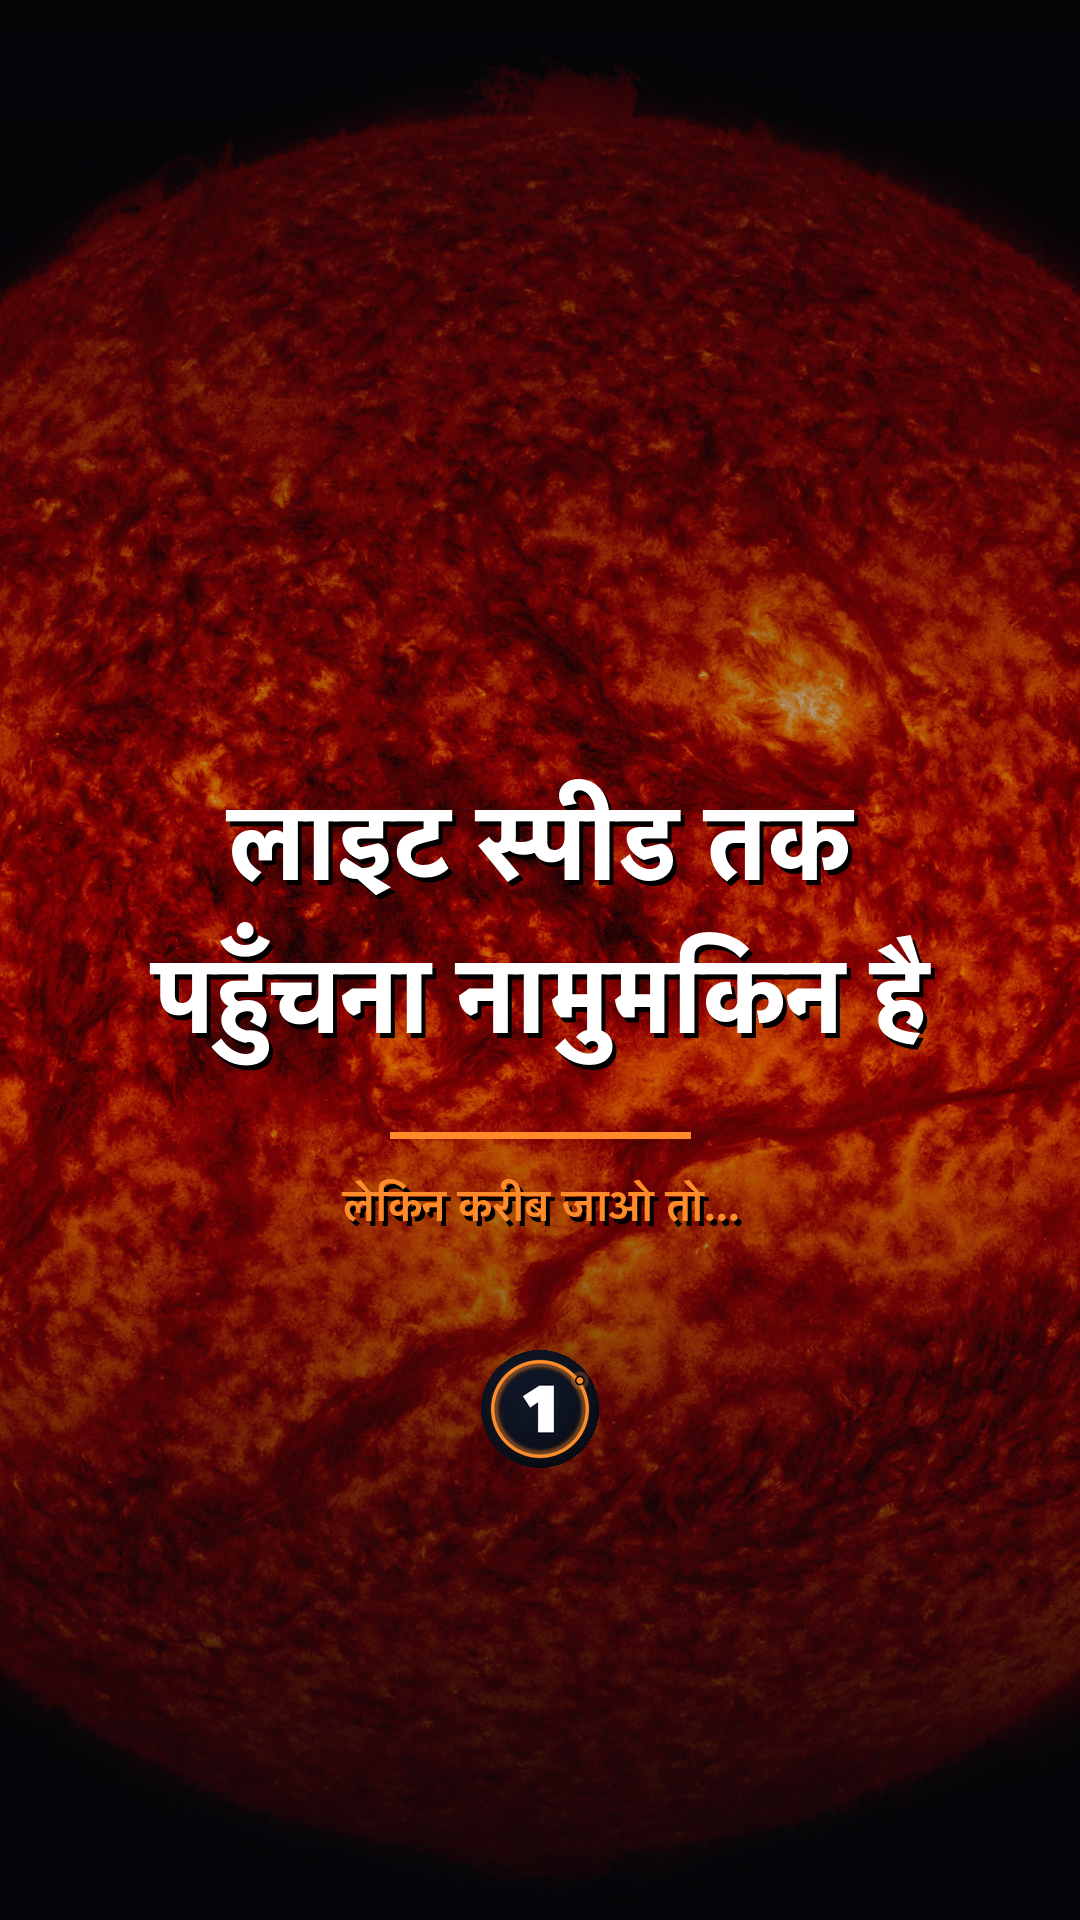
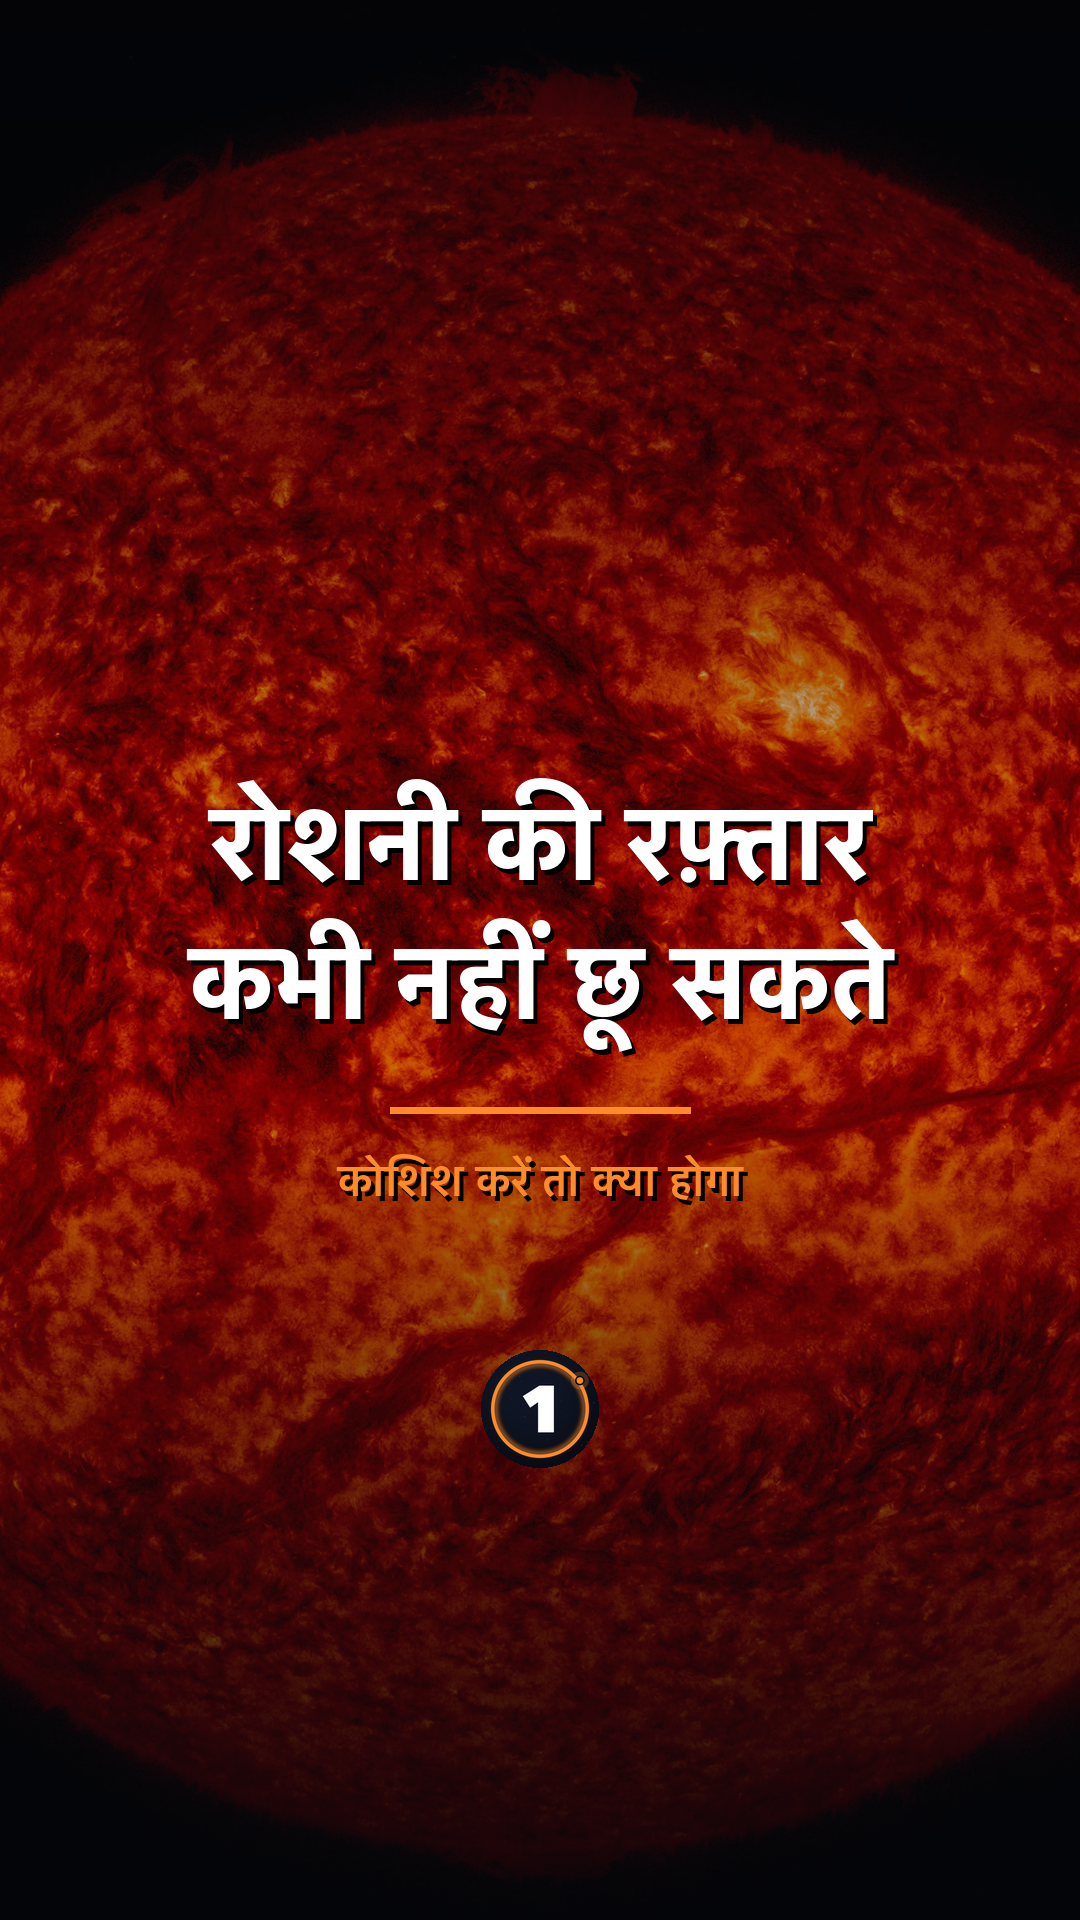
Covers: one vertical cover for all three platforms
We publish reels only, so the 1280x720 landscape thumbnail was wrong on its own
terms - YouTube Shorts and Facebook Reels both take the same 1080x1920 image
Instagram does. Dropped it. The Facebook *Page* banner is a separate one-time
channel asset, now behind --page-cover instead of being emitted per video.

make_package.py --cover drops the one image into all three folders, and no
longer throws when the source video already lives in the destination.

Badge moved up 64px: at the old position it straddled the 1:1 crop line and
would have been sliced in half in the profile grid.

Changed region(s): [[0.1222, 0.4062, 0.8556, 0.6562]]

diff --git a/Tools/publish/make_covers.py b/Tools/publish/make_covers.py
@@ -1,12 +1,14 @@
 #!/usr/bin/env python3
-"""Generate the three different things platforms call a "cover".
+"""Generate the cover image for one reel.
 
-  reel_cover_1080x1920.png   Instagram Reel / Shorts cover.
-                             All text sits inside the centre 1080x1080, because
-                             the profile grid crops it to a square.
-  yt_thumbnail_1280x720.png  YouTube thumbnail.
-  fb_cover_1640x856.png      Facebook Page cover. Text kept inside the mobile
-                             safe band, which is much narrower than the image.
+We publish reels only — Instagram Reels, YouTube Shorts, Facebook Reels — so there
+is exactly ONE cover: 1080x1920, used on all three. No landscape thumbnail.
+
+  reel_cover_1080x1920.png   All text sits inside the centre 1080x1080, because
+                             the Instagram profile grid crops it to a square.
+
+  --page-cover also writes page_cover_1640x856.png, the Facebook *Page* banner.
+  That's a one-time channel asset, not a per-video one.
 
     python3 make_covers.py --plate sun_surface --line1 "YOU CAN NEVER" \
         --line2 "REACH LIGHT SPEED" --kicker "here's what happens if you try" \
@@ -82,7 +84,7 @@ def badge(img, mark_path, size, xy):
     img.paste(m, xy, msk)
 
 
-def build(plate, l1, l2, kicker, outdir, accent, mark, hindi=False):
+def build(plate, l1, l2, kicker, outdir, accent, mark, hindi=False, page_cover=False):
     face, bold_i, semi_i = (DEV, DEV_BOLD, DEV_SEMI) if hindi else (LAT, HEAVY, DEMI)
     outdir.mkdir(parents=True, exist_ok=True)
     src = Image.open(PLATES / f"{plate}.jpg").convert("RGB")
@@ -102,47 +104,31 @@ def build(plate, l1, l2, kicker, outdir, accent, mark, hindi=False):
     d.rectangle([W / 2 - 150, y + 26, W / 2 + 150, y + 32], fill=accent + (255,))
     kl = wrap(d, kicker, fk, W - 220)
     draw_block(d, kl, fk, W / 2, y + 68, accent + (255,))
-    badge(img, mark, 118, (W // 2 - 59, sq_top + W - 150))
+    badge(img, mark, 118, (W // 2 - 59, sq_top + W - 214))   # fully inside the 1:1 crop
     img.save(outdir / "reel_cover_1080x1920.png")
 
-    # ---------- YouTube thumbnail ----------
-    W, H = 1280, 720
-    img = scrim(fit_cover(src, W, H), 0.35, 0.55)
-    d = ImageDraw.Draw(img, "RGBA")
-    f1 = ImageFont.truetype(face, 86 if hindi else 96, index=bold_i)
-    fk = ImageFont.truetype(face, 38, index=semi_i)
-    lines = wrap(d, l1, f1, W - 420) + wrap(d, l2, f1, W - 420)
-    y = (H - len(lines) * 122) // 2 - 20
-    for ln in lines:
-        l, t, r, b = d.textbbox((0, 0), ln, font=f1)
-        d.text((74, y + 5), ln, font=f1, fill=(0, 0, 0, 190))
-        d.text((70, y), ln, font=f1, fill=(255, 255, 255, 255))
-        y += 122
-    d.rectangle([70, y + 12, 310, y + 19], fill=accent + (255,))
-    d.text((70, y + 46), kicker, font=fk, fill=accent + (255,))
-    badge(img, mark, 150, (W - 200, H - 200))
-    img.save(outdir / "yt_thumbnail_1280x720.png")
-
-    # ---------- Facebook Page cover ----------
-    W, H = 1640, 856
-    img = scrim(fit_cover(src, W, H), 0.45, 0.60)
-    d = ImageDraw.Draw(img, "RGBA")
-    fn = ImageFont.truetype(LAT, 104, index=HEAVY)
-    fs = ImageFont.truetype(LAT, 44, index=DEMI)
-    # mobile crops to roughly the centre 640-wide band — keep everything inside it
-    cx = W / 2
-    badge(img, mark, 190, (int(cx - 95), int(H / 2 - 190)))
-    name = "1min.thinker"
-    l, t, r, b = d.textbbox((0, 0), name, font=fn)
-    d.text((cx - (r - l) / 2 - l, H / 2 + 36), name, font=fn, fill=(255, 255, 255, 255))
-    tag = "one big idea, every week"
-    l, t, r, b = d.textbbox((0, 0), tag, font=fs)
-    d.text((cx - (r - l) / 2 - l, H / 2 + 162), tag, font=fs, fill=accent + (255,))
-    img.save(outdir / "fb_cover_1640x856.png")
+    # ---------- Facebook *Page* banner : channel asset, not per video ----------
+    if page_cover:
+        W, H = 1640, 856
+        img = scrim(fit_cover(src, W, H), 0.45, 0.60)
+        d = ImageDraw.Draw(img, "RGBA")
+        fn = ImageFont.truetype(LAT, 104, index=HEAVY)
+        fs = ImageFont.truetype(LAT, 44, index=DEMI)
+        # mobile crops to roughly the centre 640-wide band — keep everything inside it
+        cx = W / 2
+        badge(img, mark, 190, (int(cx - 95), int(H / 2 - 190)))
+        name = "1min.thinker"
+        l, t, r, b = d.textbbox((0, 0), name, font=fn)
+        d.text((cx - (r - l) / 2 - l, H / 2 + 36), name, font=fn, fill=(255, 255, 255, 255))
+        tag = "one big idea, every week"
+        l, t, r, b = d.textbbox((0, 0), tag, font=fs)
+        d.text((cx - (r - l) / 2 - l, H / 2 + 162), tag, font=fs, fill=accent + (255,))
+        img.save(outdir / "page_cover_1640x856.png")
 
     print(f"covers → {outdir.relative_to(ROOT)}")
     for f in sorted(outdir.glob("*.png")):
-        print("   ", f.name)
+        if not f.name.startswith("."):      # exFAT AppleDouble ._ twins
+            print("   ", f.name)
 
 
 def main():
@@ -153,11 +139,13 @@ def main():
     ap.add_argument("--kicker", default="")
     ap.add_argument("--out", required=True)
     ap.add_argument("--hindi", action="store_true")
+    ap.add_argument("--page-cover", action="store_true",
+                    help="also write the Facebook Page banner (one-time channel asset)")
     a = ap.parse_args()
     build(a.plate, a.line1, a.line2, a.kicker, ROOT / a.out,
           SAFFRON if a.hindi else GOLD,
           IDENT / ("hindi_avatar_400.png" if a.hindi else "avatar_400.png"),
-          hindi=a.hindi)
+          hindi=a.hindi, page_cover=a.page_cover)
 
 
 if __name__ == "__main__":

diff --git a/Tools/publish/make_package.py b/Tools/publish/make_package.py
@@ -67,7 +67,8 @@ CAPTIONS = {"Instagram": cap_instagram, "YouTube": cap_youtube, "Facebook": cap_
 
 CHECKS = {
     "Instagram": lambda m, i: f"""INSTAGRAM REEL
-  [ ] Cover frame ~{m.get('cover_at','0')}s
+  [ ] Cover: Edit cover -> Add from gallery -> cover.png (in this folder)
+      Fallback if you skip it: pick frame ~{m.get('cover_at','0')}s
   [ ] Audio ON (voice-led — muted autoplay loses it)
   [ ] Share to Facebook Page: ON
   [ ] Allow remix + download: ON
@@ -77,6 +78,8 @@ CHECKS = {
   FILE {i.get('w')}x{i.get('h')} · {i.get('dur')}s · {i.get('mb')}MB
 """,
     "YouTube": lambda m, i: f"""YOUTUBE SHORT
+  [ ] Cover: upload cover.png as the thumbnail
+      If YouTube doesn't offer a custom thumbnail, it auto-picks a frame. Leave it.
   [ ] Title from title.txt ({len(m['yt_title'])}/100 chars)
   [ ] Tags from tags.txt
   [ ] #Shorts present
@@ -86,6 +89,7 @@ CHECKS = {
 """,
     "Facebook": lambda m, i: f"""FACEBOOK REEL
   Easiest: publish on Instagram with "Share to Facebook" ON and skip this folder.
+  [ ] Cover: Edit cover -> Upload -> cover.png
   Facebook rewards few hashtags — 3-5 only.
   FILE {i.get('w')}x{i.get('h')} · {i.get('dur')}s · {i.get('mb')}MB
 """,
@@ -97,6 +101,7 @@ def main():
     ap.add_argument("video")
     ap.add_argument("meta")
     ap.add_argument("--date", default=date.today().isoformat())
+    ap.add_argument("--cover", help="reel_cover_1080x1920.png — copied into all three folders")
     a = ap.parse_args()
 
     vid = Path(a.video)
@@ -109,10 +114,18 @@ def main():
     info = probe(vid)
     slug = slugify(meta.get("slug") or meta["yt_title"])
 
+    # one vertical cover, same image on all three — we publish reels only
+    cover = Path(a.cover) if a.cover else None
+    if cover and not cover.exists():
+        sys.exit(f"no such cover: {cover}")
+
     for p in PLATFORMS:
         d = EXPORTS / p / a.date / slug
         d.mkdir(parents=True, exist_ok=True)
-        shutil.copy2(vid, d / vid.name)
+        if (d / vid.name).resolve() != vid.resolve():
+            shutil.copy2(vid, d / vid.name)
+        if cover:
+            shutil.copy2(cover, d / "cover.png")
         (d / "caption.txt").write_text(CAPTIONS[p](meta), encoding="utf-8")
         (d / "_checklist.txt").write_text(CHECKS[p](meta, info), encoding="utf-8")
         if p == "YouTube":

diff --git a/Brand Kit/BIOS_COPY_PASTE.md b/Brand Kit/BIOS_COPY_PASTE.md
@@ -88,7 +88,7 @@ Space · physics · the what-ifs. New drop every week.
 ```
 
 **Category:** Science, Technology & Engineering
-**Picture:** `identity/avatar_400.png` · **Cover:** `identity/youtube_banner_2560x1440.png`
+**Picture:** `identity/avatar_400.png` · **Cover:** `identity/fb_page_cover_1640x856.png`
 
 ---
 
@@ -102,6 +102,31 @@ Space · physics · the what-ifs. New drop every week.
 | `hindi_avatar_1024.png` | Hindi | master avatar — saffron ring |
 | `hindi_avatar_800 / 400 / 180 / 98.png` | Hindi | same sizes |
 | `hindi_youtube_banner_2560x1440.png` | Hindi | banner / cover |
+| `fb_page_cover_1640x856.png` | English | Facebook **Page** cover |
+| `hindi_fb_page_cover_1640x856.png` | Hindi | Facebook Page cover |
+
+### Per-video covers — a different thing
+
+"Cover" means three different images and all three are different sizes. They're
+generated per video, not once per channel:
+
+```bash
+~/Developer/tools-venv/manim/bin/python Tools/publish/make_covers.py \
+  --plate sun_surface --line1 "YOU CAN NEVER" --line2 "REACH LIGHT SPEED" \
+  --kicker "here's what happens if you try" --out "Exports/covers/<slug>"
+```
+
+| Output | Goes where |
+|---|---|
+| `reel_cover_1080x1920.png` | Instagram "Cover photo" → Add from gallery; Shorts custom thumbnail |
+| `yt_thumbnail_1280x720.png` | YouTube thumbnail (for the long-form/landscape upload) |
+| `fb_cover_1640x856.png` | Facebook Page cover |
+
+Add `--hindi` for the Hindi set (saffron accent, Kohinoor type).
+
+The reel cover's text is deliberately squeezed into the middle: Instagram crops your
+profile grid to a square, so anything in the top or bottom 420px is invisible to anyone
+browsing your profile. Centre square only.
 
 **Why the Hindi mark keeps the Latin "1":** I tested the Devanagari १ and it collapses
 into an unreadable blob at 40px, which is the size a profile picture actually appears at

diff --git a/Brand Kit/ACCOUNT_SETUP.md b/Brand Kit/ACCOUNT_SETUP.md
@@ -12,6 +12,7 @@ Assets are in `Brand Kit/identity/`:
 | `avatar_180.png` | Instagram (it downsizes to 110px anyway) |
 | `avatar_98.png` | preview of how it reads tiny |
 | `youtube_banner_2560x1440.png` | YouTube channel banner |
+| `fb_page_cover_1640x856.png` | Facebook Page cover |
 
 The mark is built to survive being shown at 40px — a gold ring, a bold "1", one gold body on the
 ring. No small text, because small text disappears at profile size.
@@ -49,7 +50,7 @@ crossposts.
 3. **Category:** `Science, Technology & Engineering` → or `Video Creator`
 4. **Bio:** same one-liner as Instagram
 5. Create → then **Profile picture:** `avatar_400.png`,
-   **Cover photo:** `youtube_banner_2560x1440.png` (it crops fine)
+   **Cover photo:** `fb_page_cover_1640x856.png`
 6. Page settings → **Username** → set `@1min.thinker` so the URL is
    `facebook.com/1min.thinker`
 7. **Link it to Instagram:** Page → Settings → **Linked accounts** → Instagram → connect
